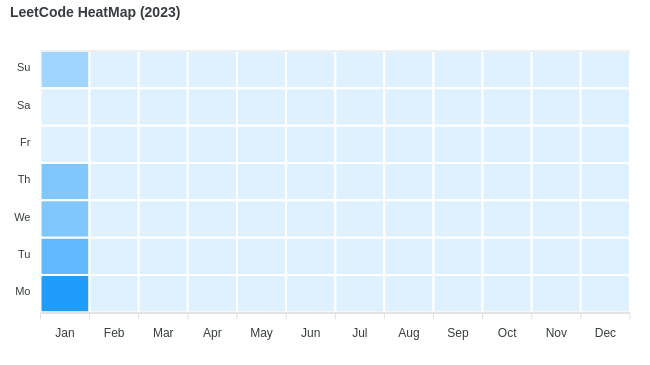
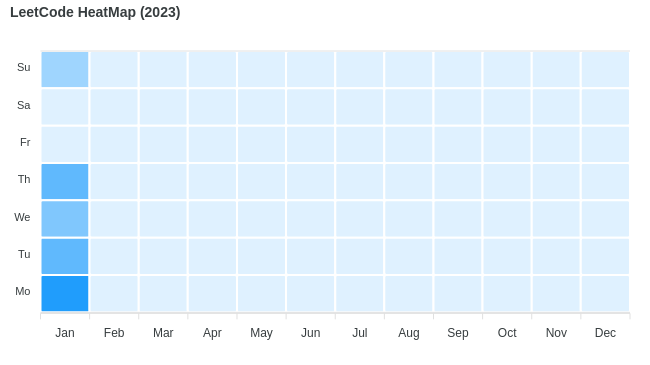
update heatmap.png

Changed region(s): [[0.0615, 0.4521, 0.1538, 0.5425]]

diff --git a/README.md b/README.md
@@ -3,7 +3,7 @@
 
 Collection of LeetCode questions to ace the coding interview! - Created using [LeetHub](https://github.com/QasimWani/LeetHub)
 
-> Questions solved 208 uniq: 84
+> Questions solved 209 uniq: 85
 
 ## Contribution 
 
